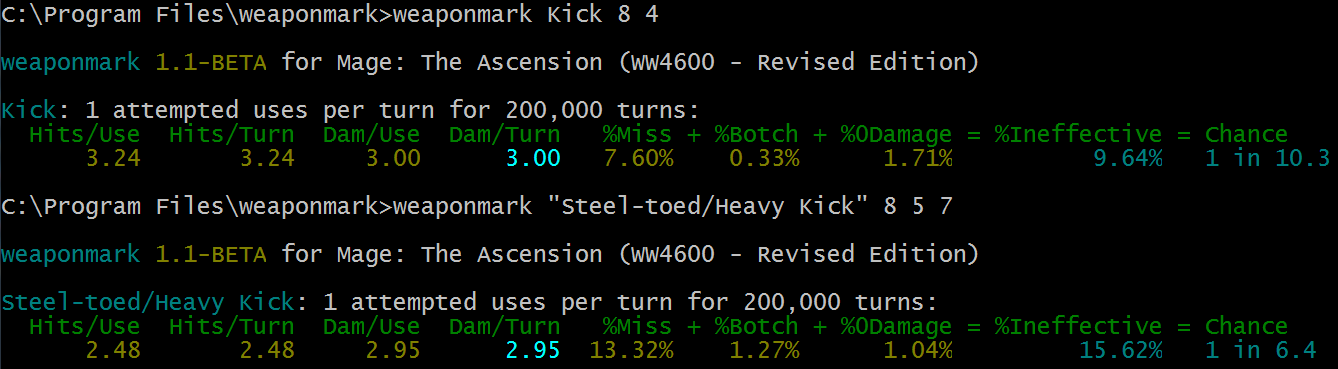
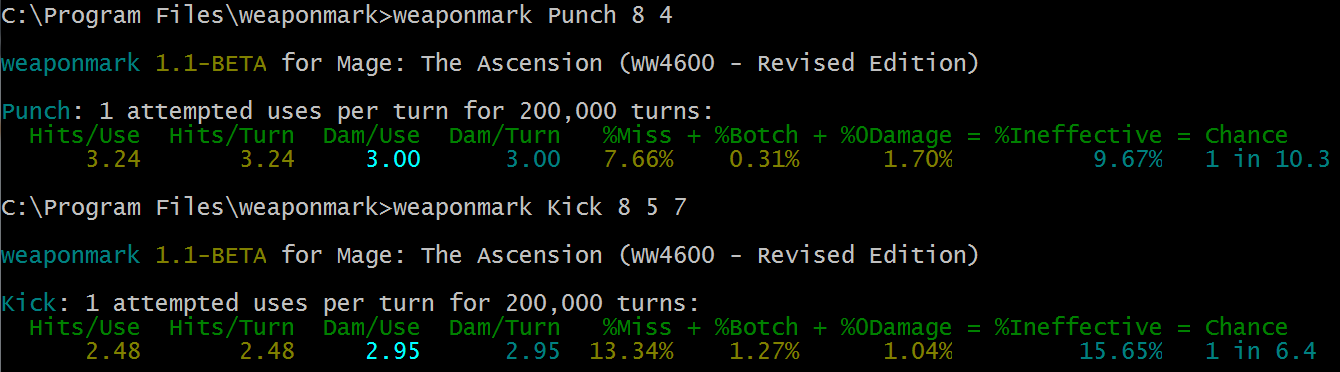
fixed an example to match the core rules instead of the campaign house rules I played under.

diff --git a/README.md b/README.md
@@ -31,31 +31,32 @@ It is also useful to players looking to compare the strengths and weaknesses of 
 
 Questions such as, *"how much damage would my attack do against an opponent with 3 stamina and 2 armor?"*, or, *"how likely am I to miss or botch if I split my action into three Multi-Actions?"*,
  can all be answered.
-### Another Example
-When I started playing my martial artist character I was dismayed to find that a steel-toed "heavy" kick was only a +1 to damage dice at a cost of +1 to hit difficulty.
-I suspected the "heavy kick"-attack was a loser.
+### Another Example - The Broken Kick Attack
+When I started playing my martial artist character I was dismayed to find a kick was only a +1 to damage dice at a cost of +1 to hit difficulty (Core Rules p.241)
+I suspected the kick-attack was a loser.
 
 Weaponmark reveals the truth:
 
-![Broken Heavy Kick Example](https://raw.githubusercontent.com/locke8/weaponmark/master/src/main/resources/screens/kicking.png)
+![Broken Kick Example](https://raw.githubusercontent.com/locke8/weaponmark/master/src/main/resources/screens/kicking.png)
 
-As you can see the "heavy kick" is indeed broken.
-In exchange for being four times more likely to botch and being ineffective 1 in every 6 attempts (as opposed to 1 in 10) -- *you do slightly **less** damage per attempt than just a regular kick.*
-Zero upside.
+As you can see the basic *Kick* attack is indeed broken:
+
+In exchange for being four times more likely to botch and being ineffective 1 in every 6 attempts (as opposed to 1 in 10 for a strike/punch) -- *you do slightly **less** damage per attempt than striking!*
+There is no reason to ever Kick using the core rules, strike instead - same damage with a lot less risk of botching or missing.
 
 #### Possible Solution
-As a potential solution you might try this for a "heavy" kick:
+As a potential fix, you might try this formula when Kicking:
 
   - Damage Dice = Strength + 3 *(compared to +1 in rules)*
 
   - Hit Difficulty = 7 *(no change from core rules)*
 
 This seems to yield results with a reasonable upside. You will still botch four times as often
-and be ineffective 1 in 6.7 attempts -- BUT -- you will also average 0.7 to 0.8 more points of damage per successful attack.
-If you would like the bonus to damage to be less (about 0.3 more points) use strength+2 instead.
-For me, ten percent more damage for the additional risks is not very compelling; twenty five percent more damage seems worthwhile from a risk/reward perspective.
-Of course each Storyteller should decide what works best for their particular campaign.
-Weaponmark can help you understand what is going on with an attack, find problems (like the one above), and make it easy to experiment with alternative solutions.
+and be ineffective 1 in 6.7 attempts -- BUT -- you will also average +0.7 to +0.8 more points of damage when you attack is successful.
+If you would like the bonus to damage to be less (about +0.3 points) use strength+2 instead.
+For me, an additional ten percent damage in exchange for the increased botching and missing is not compelling but the possibility of a twenty five percent increase offers a viable choice from a risk/reward standpoint.
+Of course each Storyteller should decide what works best for their particular campaign (I seriously doubt my own storyteller would agree to +3 damage).
+Weaponmark can help you understand what is going on with an attack, find hidden problems (like the one above), and make it easy to experiment with alternative solutions.
 
 ## Getting Started
 ### Installation
